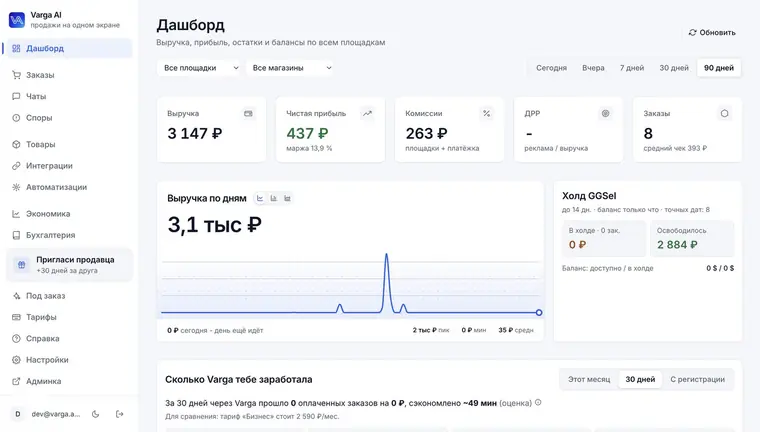
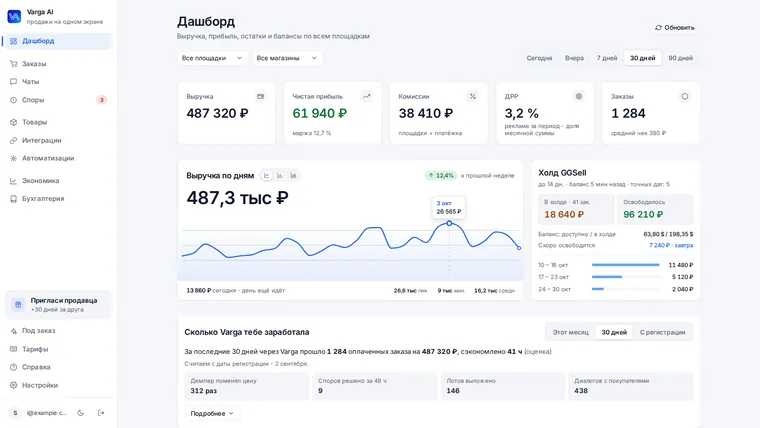
landing 12.10: no-competitor note, new hero-dash images

diff --git a/index.html b/index.html
@@ -1152,7 +1152,7 @@ if(k&&h){
 <tr><th scope="row">Автовыдача и подъём лотов</th><td data-l="Таблицы"><span class="tv">Нет</span></td><td data-l="Бот*"><span class="tv">Есть</span></td><td data-l="Varga" class="hl"><span class="tv">Есть, плюс автовыдача у поставщиков</span></td></tr>
 <tr><th scope="row">Запуск</th><td data-l="Таблицы"><span class="tv">Ничего ставить не надо</span></td><td data-l="Бот*"><span class="tv">Свой компьютер или сервер</span></td><td data-l="Varga" class="hl"><span class="tv">В браузере, подключение за 10 минут</span></td></tr>
 </tbody></table></div></div>
-<p class="vs-note">* По описанию проекта FunPay Cardinal на GitHub. Сравниваем функции, а не качество. Если тебе нужна только автовыдача на FunPay, бот справится.</p>
+<p class="vs-note">* По описанию проекта FunPay Cardinal на GitHub. Сравниваем функции, а не качество.</p>
 </div></section>
 
 <section id="price" class="soft"><div class="wrap">
